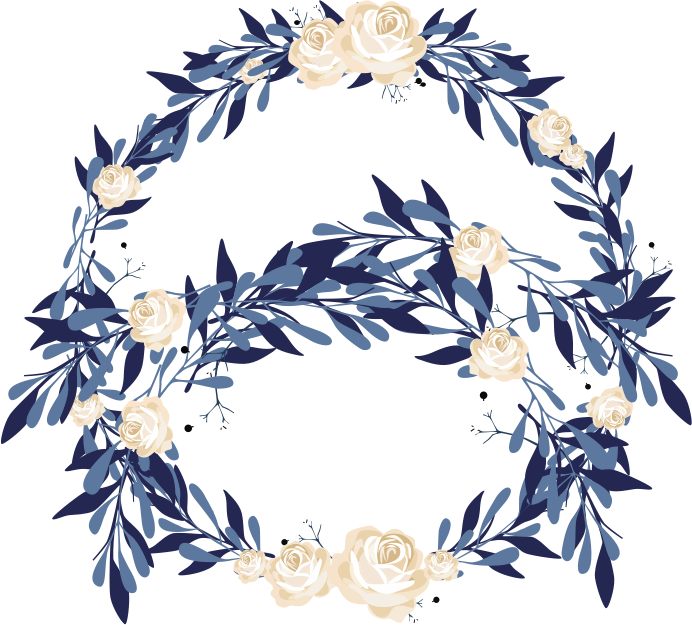
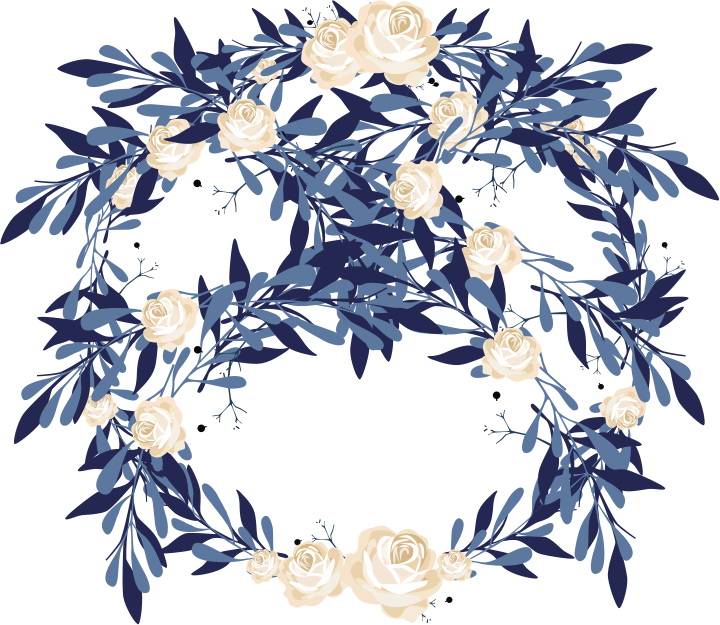
login

diff --git a/pages/index.vue b/pages/index.vue
@@ -131,6 +131,7 @@ body {
 
 .login-bg {
   position: absolute;
+  opacity: 0.5;
 }
 
 ::-webkit-input-placeholder {
@@ -160,12 +161,19 @@ body {
 }
 
 @media only screen and (max-width: 720px) {
+  .input-container img {
+    width: 80px;
+  }
+
   .login-container .login {
-    height: 30vh;
+    height: 35vh;
+    width: 70%;
+    box-shadow: 0px 0px 20px 0px rgba(0, 0, 0, 0.11);
+    min-height: auto;
   }
 
   .login-bg {
-    position: absolute;
+    position: fixed;
     width: 110%;
   }
 }
